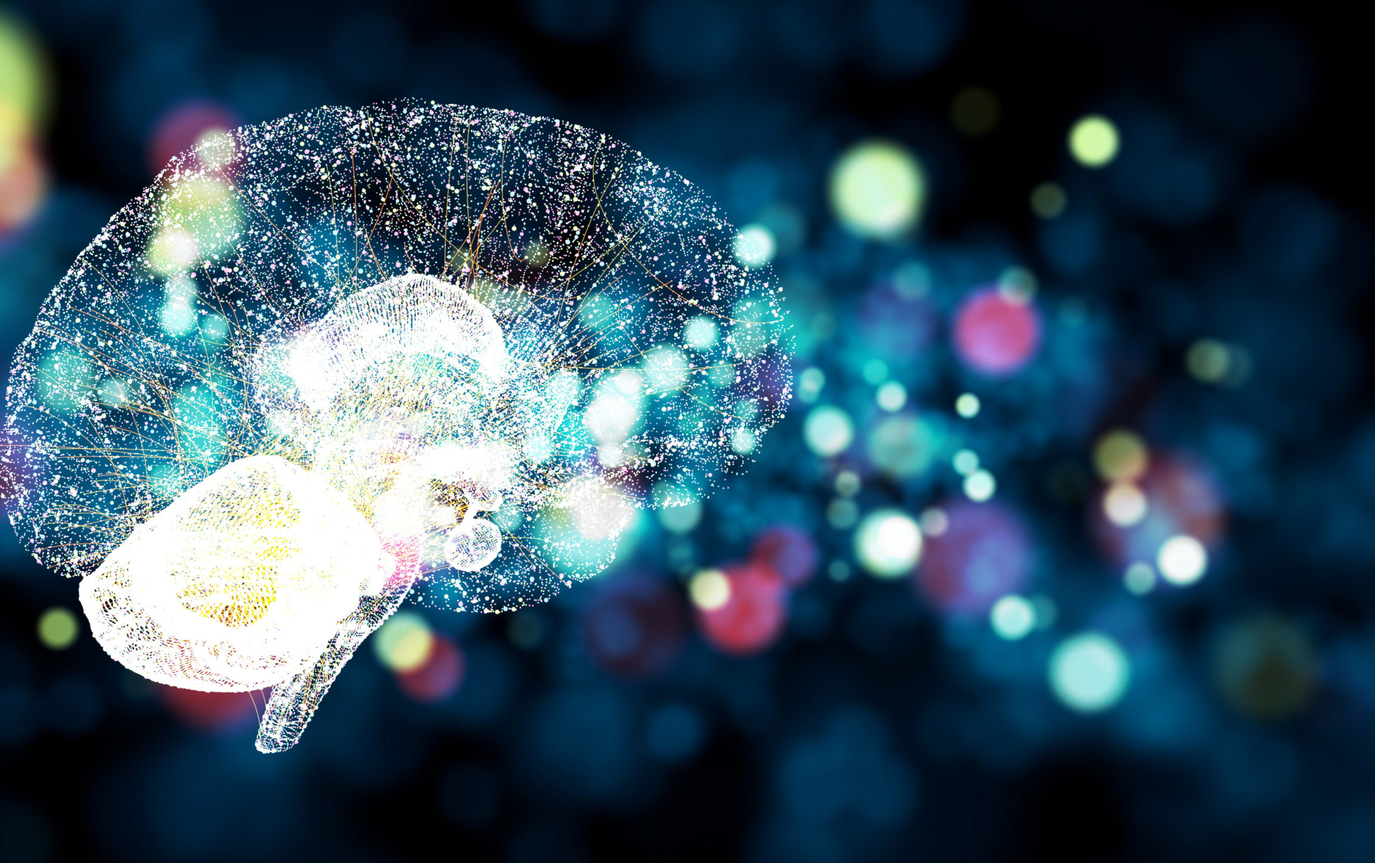
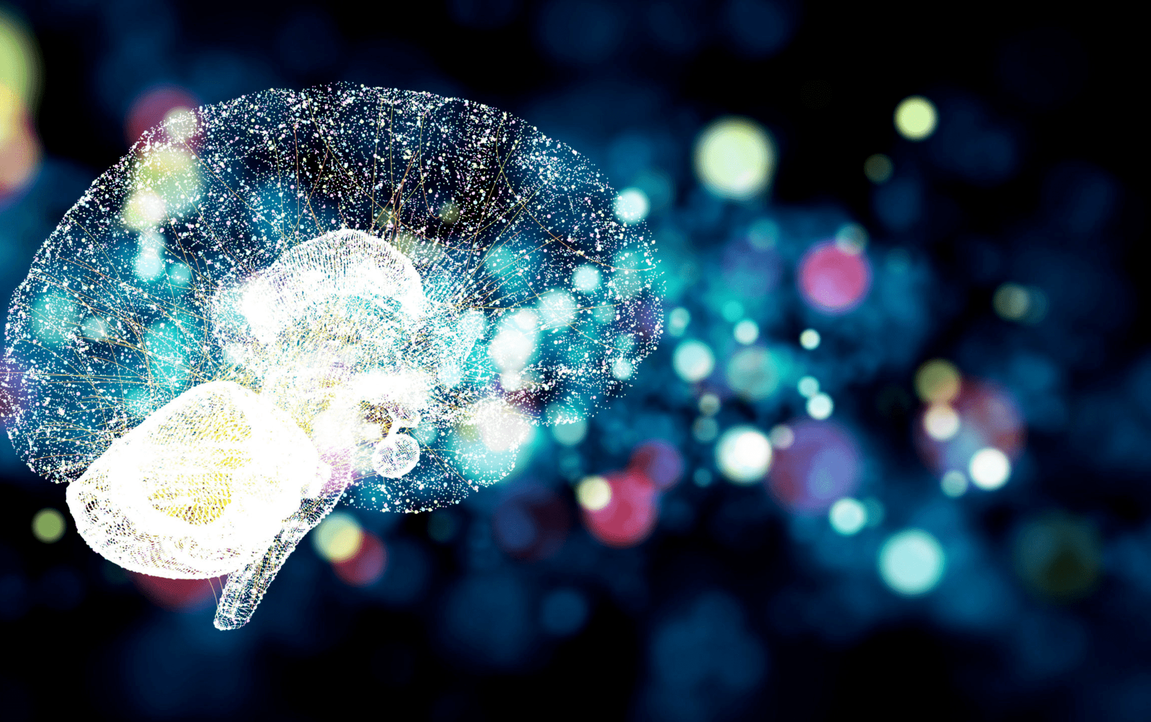
reduce img file size

diff --git a/index.html b/index.html
@@ -39,7 +39,7 @@
 <!-- Navigation end -->
 
 <!-- Home Section Start -->
-<section class="pb_cover_v1 cover-bg-black cover-bg-opacity-4"
+<section class="pb_cover_v1 cover-bg-black cover-bg-opacity-3"
          style="background-image: url(assets/img/background.png)" id="home">
     <div class="container">
         <div class="row align-items-center justify-content-end">

diff --git a/assets/css/main.css b/assets/css/main.css
@@ -1,3 +1,7 @@
+html {
+    scroll-behavior: smooth;
+}
+
 body {
     margin: 0;
     padding: 0;
@@ -110,8 +114,8 @@ body {
     content: "";
 }
 
-.cover-bg-opacity-4:before {
-    opacity: .4;
+.cover-bg-opacity-3:before {
+    opacity: .3;
 }
 
 .heading {
